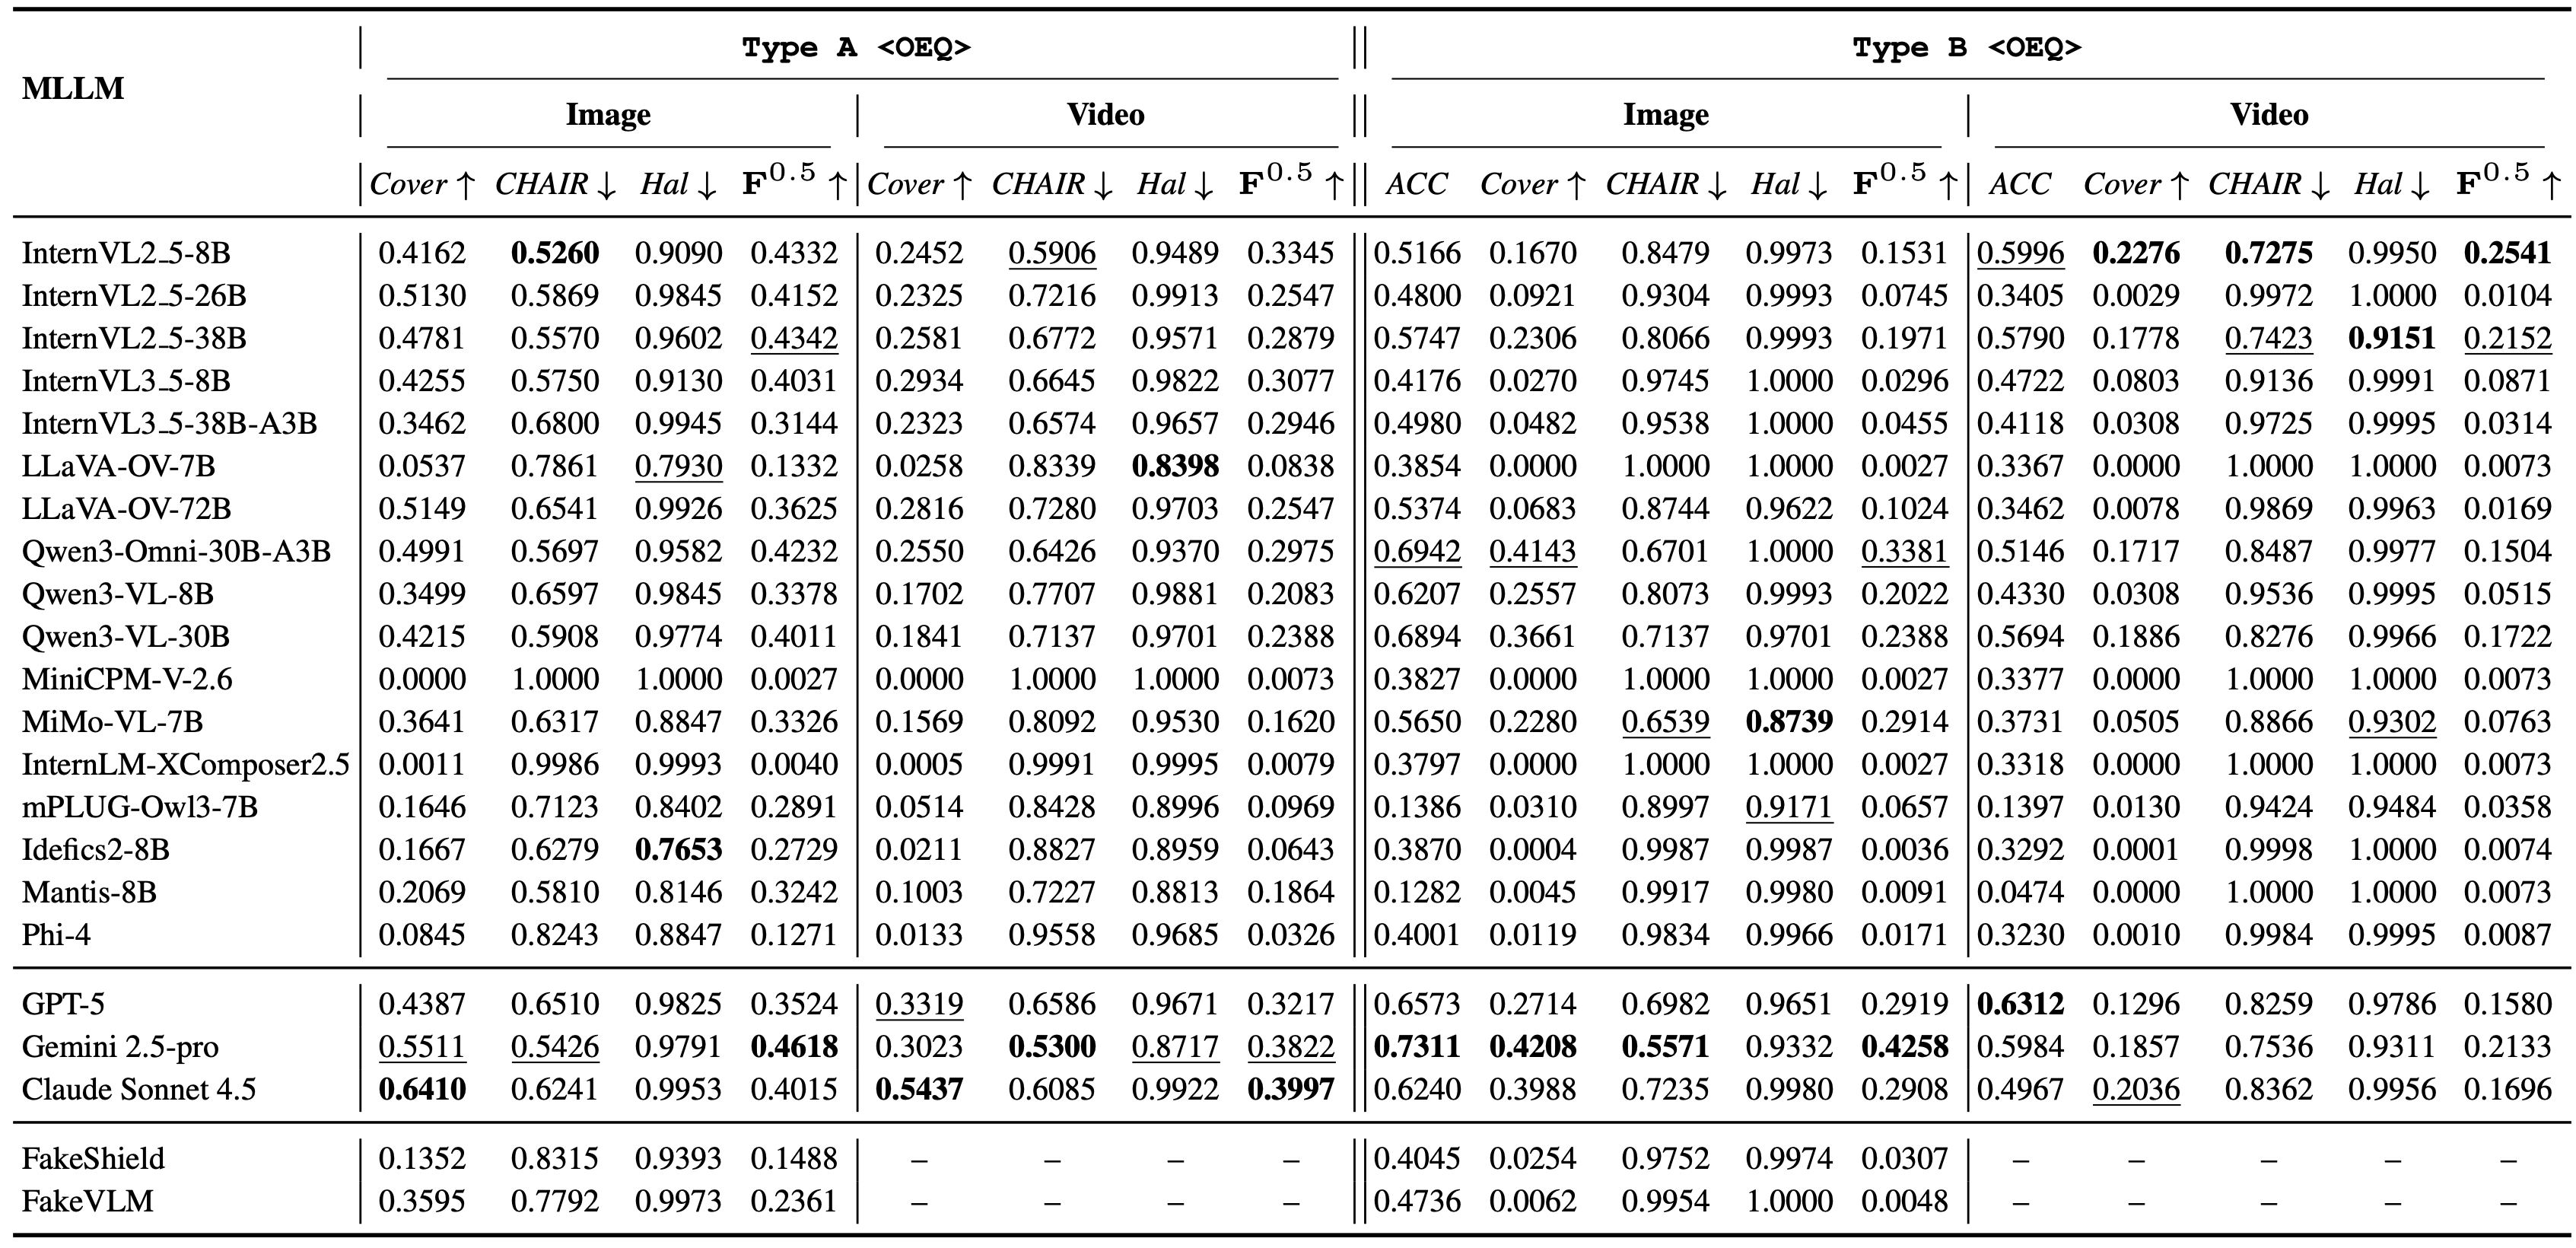
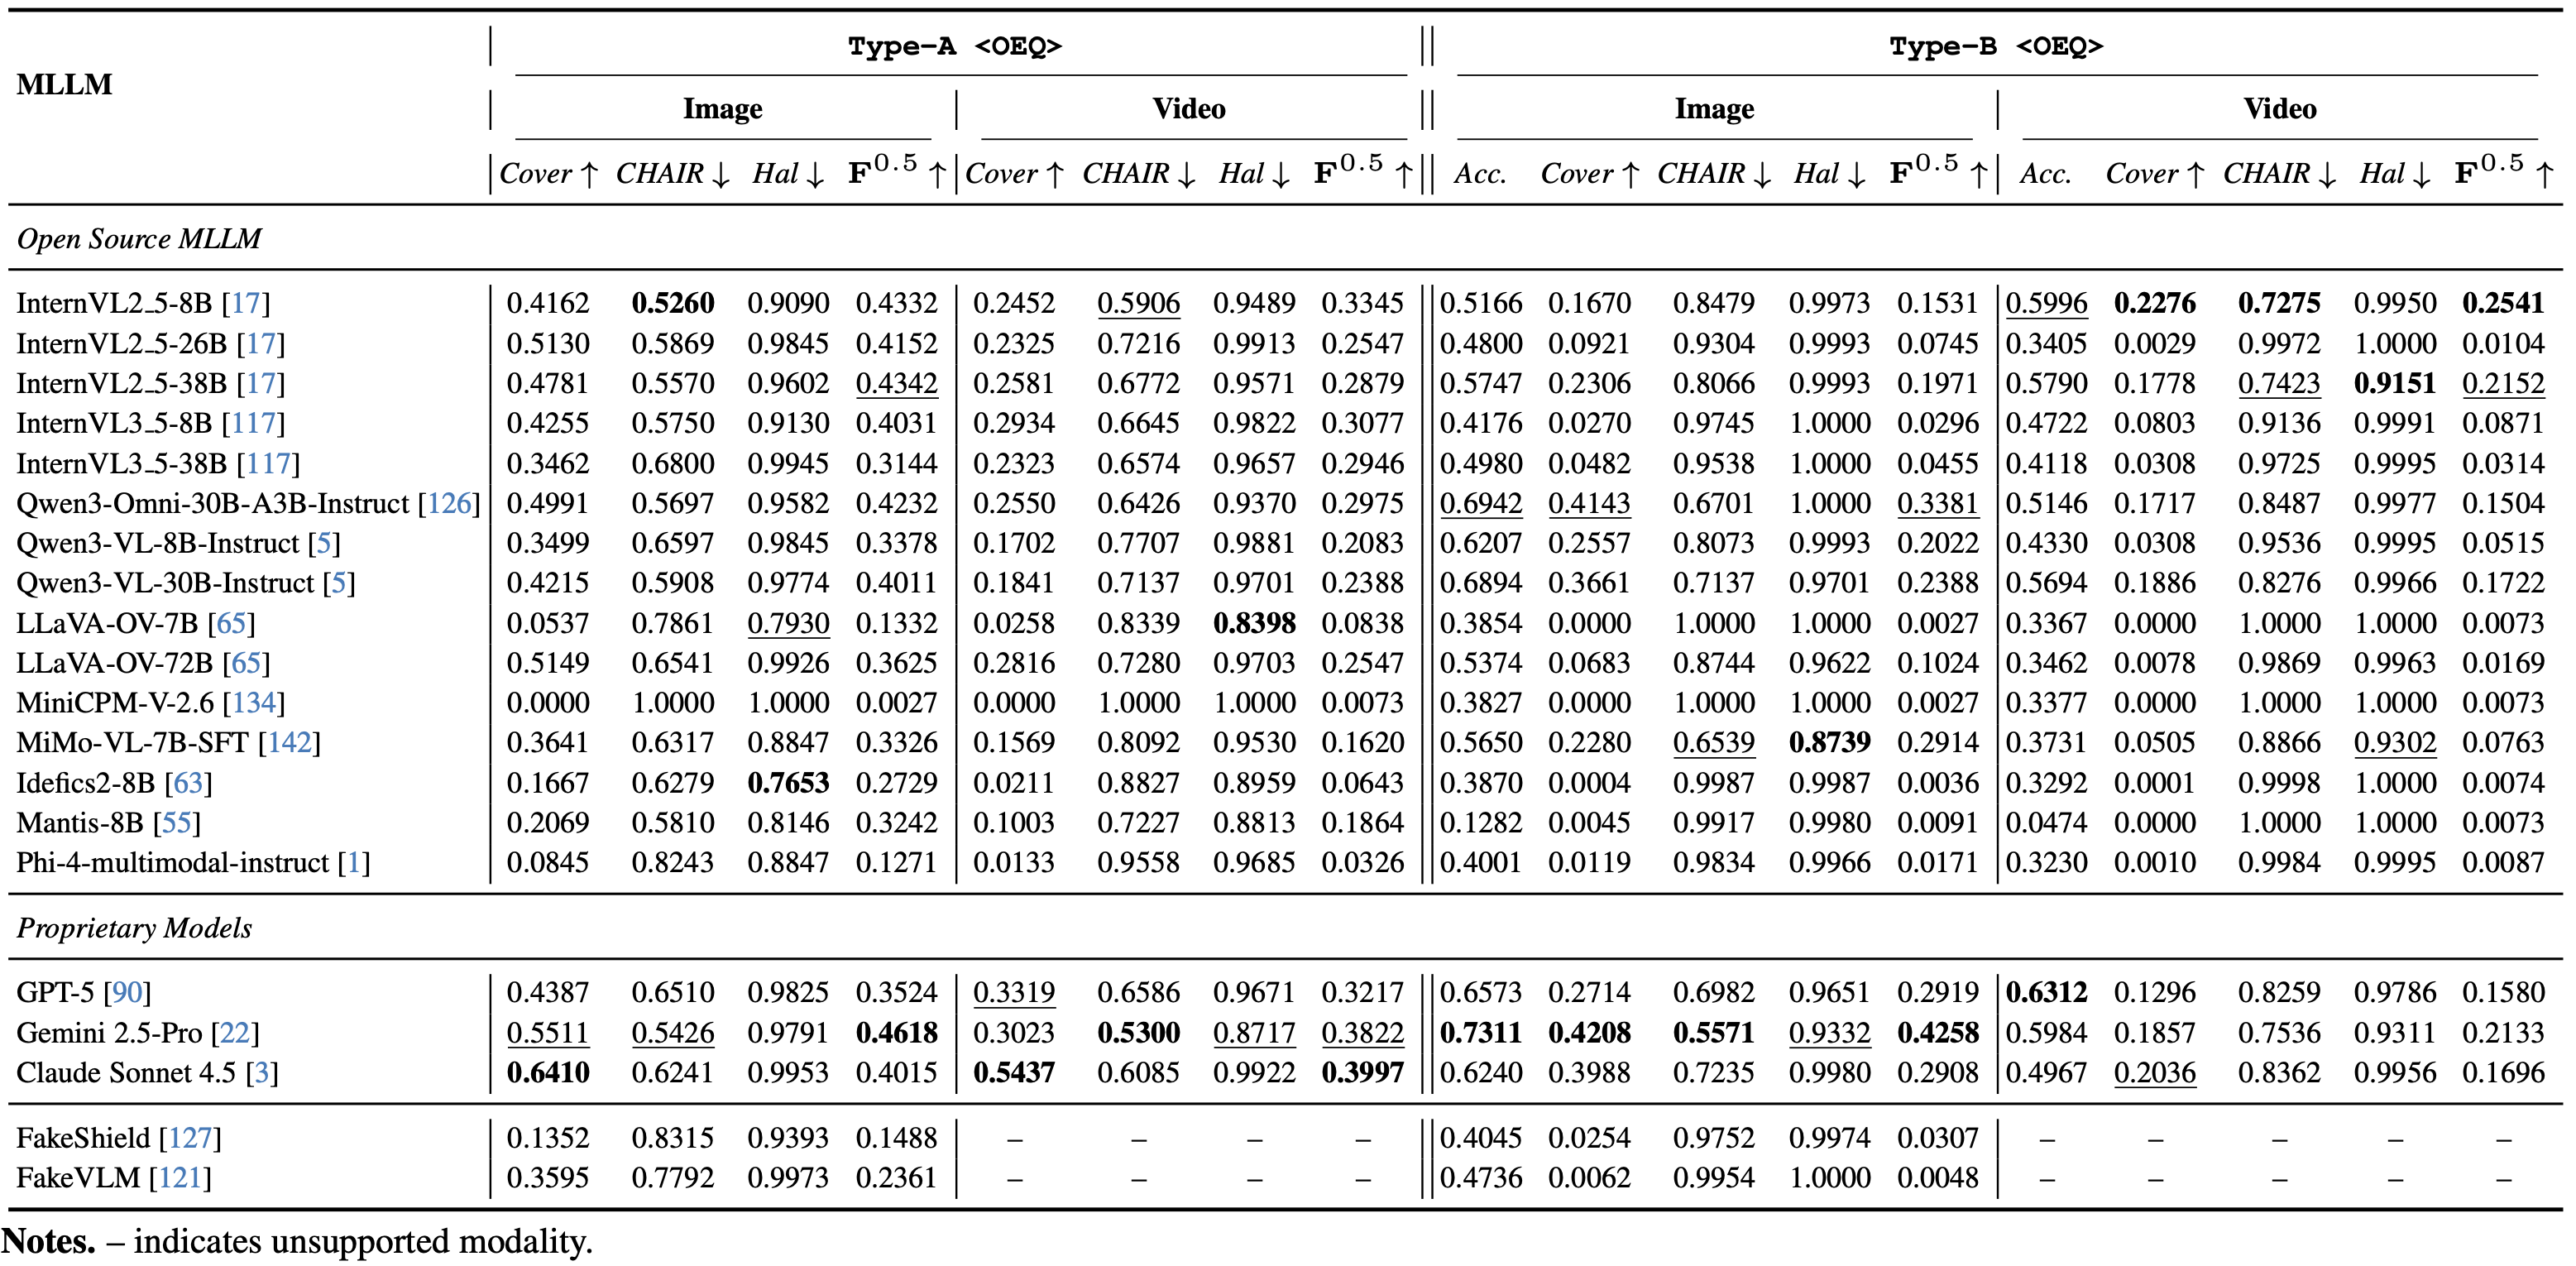
Sync gh-pages content with main

Changed region(s): [[0.0, 0.0, 1.0, 1.0], [0.0, 0.0614, 0.0623, 0.0922], [0.5295, 0.0, 0.5607, 0.0307]]

diff --git a/index.html b/index.html
@@ -49,7 +49,7 @@
 
           <div class="publication-acceptance-badge" role="status" aria-label="Accepted by CVPR 2026">
             <span aria-hidden="true">🎉</span>
-            <span>Accepted by CVPR 2026</span>
+            <span>Accepted to CVPR 2026</span>
           </div>
 
           <div class="is-size-5 publication-authors publication-authors-main">
@@ -98,7 +98,7 @@
                 <a href="#">Hong-Han Shuai</a><sup>2</sup>,
               </span>
               <span class="author-block">
-                <a href="#">Wen-Huang Cheng</a><sup>1</sup>&dagger;
+                <a href="#">Wen-Huang Cheng</a><sup>1,4</sup>&dagger;
               </span>
             </div>
           </div>
@@ -111,6 +111,7 @@
             <span class="author-block"><sup>1</sup>National Taiwan University</span>
             <span class="author-block"><sup>2</sup>National Yang Ming Chiao Tung University</span>
             <span class="author-block"><sup>3</sup>Jilin University</span>
+            <span class="author-block"><sup>4</sup>VinUniversity</span>
           </div>
 
           <div class="column has-text-centered">
@@ -219,8 +220,8 @@
             <p>
               Advances in generative modeling have made it increasingly easy to fabricate realistic portrayals
               of individuals, creating serious risks for security, communication, and public trust. Detecting
-              such person-driven manipulations requires systems that not only distinguish altered content from
-              authentic media but also provide clear and reliable reasoning.
+              such person-centric manipulations requires systems not only to distinguish altered content from
+              authentic media but also to provide reliable reasoning.
               In this paper, we introduce TriDF, a comprehensive benchmark for interpretable DeepFake detection.
               TriDF contains high-quality forgeries from advanced synthesis models, covering 16 DeepFake types
               across image, video, and audio modalities. The benchmark evaluates three key aspects: Perception,
@@ -287,7 +288,7 @@
           <hr class="section-title-rule" aria-hidden="true">
           <div class="content has-text-justified">
             <p>
-              On TriDF, we benchmark 26 MLLMs (23 open-source; 3 proprietary) zero-shot on image, video,
+              On TriDF, we benchmark 23 MLLMs (20 open-source; 3 proprietary) zero-shot on image, video,
               and audio DeepFakes—testing perception, detection, and hallucination. Our key findings are
               summarized as follows:
             </p>